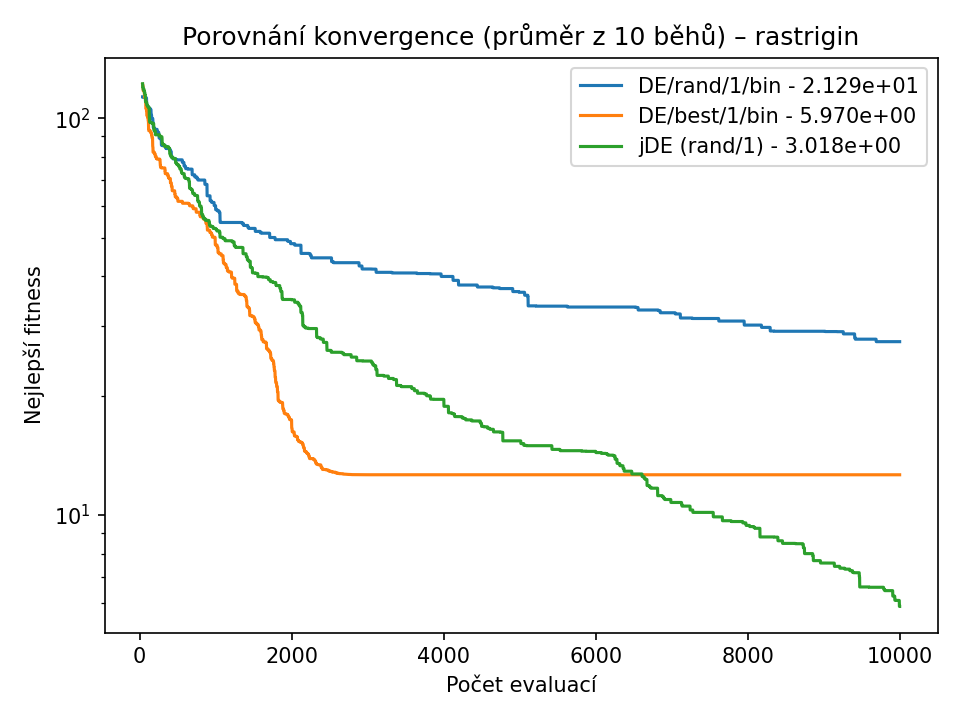
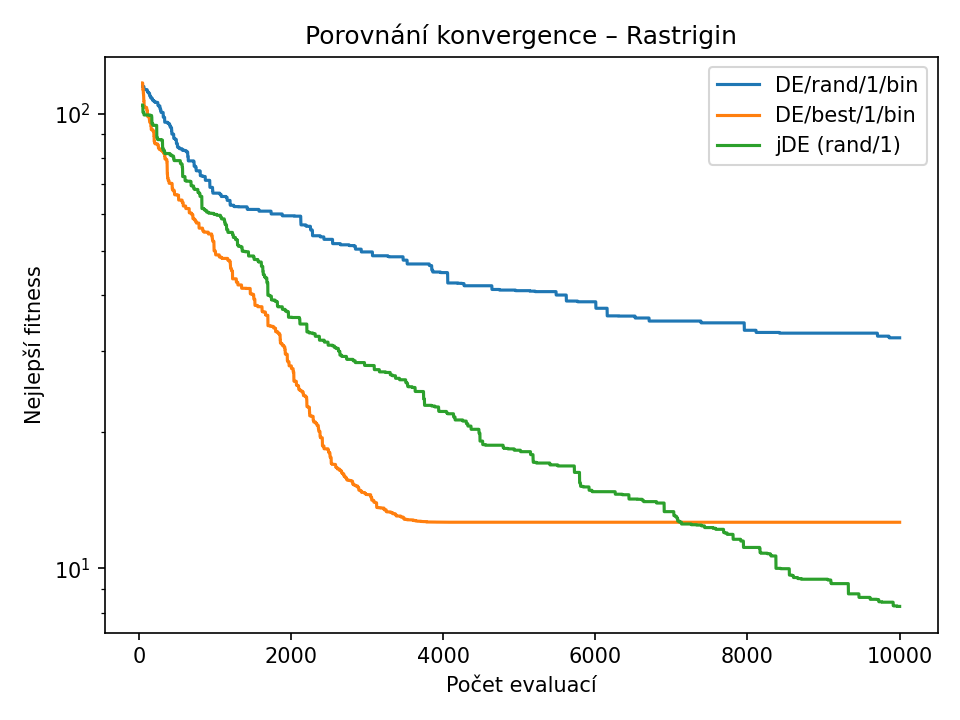
Add readme generator and update main execution logic for Differential Evolution

diff --git a/diferencialni_evoluce/readme_generator.py b/diferencialni_evoluce/readme_generator.py
@@ -1,0 +1,150 @@
+
+import os
+import math
+import numpy as np
+from datetime import datetime
+from de_core import DifferentialEvolution
+from main import sphere, rastrigin, rosenbrock, schwefel
+
+
+FUNCTIONS = [
+    ("Sphere", sphere, (-100, 100)),
+    ("Rastrigin", rastrigin, (-5.12, 5.12)),
+    ("Rosenbrock", rosenbrock, (-2.048, 2.048)),
+    ("Schwefel", schwefel, (-500, 500)),
+]
+
+STRATEGIES = [
+    ("DE/rand/1/bin", dict(strategy="rand1bin", F=0.5, CR=0.8)),
+    ("DE/best/1/bin", dict(strategy="best1bin", F=0.5, CR=0.8)),
+    ("jDE (rand/1)", dict(strategy="rand1bin", F=0.5, CR=0.9, jde=True, tau1=0.1, tau2=0.1)),
+]
+
+DIM = 10
+POP = 50
+MAX_EVALS = 10000
+RUNS = 10
+
+
+# ---------- Pomocné ----------
+def sci(x): return f"{x:.3e}"
+
+
+def run_multiple_runs(de_params, runs=10):
+    logs, finals = [], []
+    for _ in range(runs):
+        de = DifferentialEvolution(**de_params, seed=np.random.randint(0, 9999))
+        best, best_fit, log = de.run()
+        logs.append(np.array(log))
+        finals.append(best_fit)
+
+    # sjednocení délky logů a výpočet průměrné křivky
+    min_len = min(len(l) for l in logs)
+    logs = [l[:min_len] for l in logs]
+    evals = logs[0][:, 0]
+    mean_curve = np.mean([l[:, 1] for l in logs], axis=0)
+    return evals, mean_curve, np.array(finals)
+
+
+# ---------- Hlavní funkce ----------
+def main():
+    os.makedirs("charts", exist_ok=True)
+    os.makedirs("tables", exist_ok=True)
+
+    lines = []
+    lines.append("# Souhrnný report diferenciální evoluce (DE)")
+    lines.append(f"**Datum generování:** {datetime.now().strftime('%Y-%m-%d %H:%M:%S')}")
+    lines.append("")
+    lines.append("## Nastavení experimentu")
+    lines.append(f"- Počet běhů = `{RUNS}`")
+    lines.append(f"- Dimenze (D) = `{DIM}`")
+    lines.append(f"- Počet evaluací = `{MAX_EVALS}`")
+    lines.append(f"- Velikost populace = `{POP}`")
+    lines.append("")
+
+    lines.append("## Princip fungování DE")
+    lines.append(
+        "Diferenciální evoluce (DE) pracuje s reálnými vektory. "
+        "Každý jedinec představuje řešení a nové kandidáty vytváří kombinací jiných jedinců. "
+        "Hlavní části algoritmu jsou:")
+    lines.append("")
+    lines.append("- **Mutace:** vytváří tzv. *mutantní vektor*. Např. pro strategii `rand/1` platí:")
+    lines.append("  \\\( v_i = x_{r1} + F (x_{r2} - x_{r3}) \\)")
+    lines.append("  kde `F` (0.5–0.9) určuje velikost kroku.")
+    lines.append(
+        "- **Křížení (crossover):** kombinuje mutantní vektor s původním jedincem podle pravděpodobnosti `CR`.")
+    lines.append("- **Selekce:** pokud je nový jedinec lepší, nahradí původního.")
+    lines.append("- **jDE:** speciální varianta, která si sama adaptuje parametry `F` a `CR`.")
+    lines.append("")
+
+    lines.append("## Testovací funkce a jejich rozsahy")
+    lines.append("| Funkce | Rozsah proměnných |")
+    lines.append("| --- | --- |")
+    for name, _, (lo, hi) in FUNCTIONS:
+        lines.append(f"| {name} | {lo} až {hi} |")
+    lines.append("")
+
+    # ---------- Výsledky ----------
+    for func_name, func, bounds in FUNCTIONS:
+        lines.append(f"## {func_name}")
+        lines.append(f"### {func_name.lower()} – D={DIM}, budget={MAX_EVALS}, runs={RUNS}")
+        lines.append("")
+        results = []
+        comparison = []
+
+        for label, strat in STRATEGIES:
+            params = dict(func=func, dim=DIM, bounds=bounds,
+                          pop_size=POP, max_evals=MAX_EVALS, **strat)
+            evals, mean_curve, finals = run_multiple_runs(params, runs=RUNS)
+
+            results.append({
+                "label": label,
+                "best": np.min(finals),
+                "worst": np.max(finals),
+                "mean": np.mean(finals),
+                "std": np.std(finals)
+            })
+
+            log = np.column_stack((evals, mean_curve))
+            comparison.append((log, label))
+
+        # tabulka souhrnu
+        lines.append("| Varianta | best | worst | mean | std |")
+        lines.append("|-----------|-------|-------|------|------|")
+        for r in results:
+            lines.append(
+                f"| {r['label']} | {sci(r['best'])} | {sci(r['worst'])} | {sci(r['mean'])} | {sci(r['std'])} |")
+        lines.append("")
+
+        # graf
+        chart_path = f"charts/{func_name.lower()}_comparison_avg.png"
+        DifferentialEvolution.plot_comparison(comparison,
+                                              title=f"Porovnání konvergence – {func_name}",
+                                              out_path=chart_path)
+        lines.append(f"![{func_name}]({chart_path})")
+        lines.append("")
+
+    # ---------- Závěr ----------
+    lines.append("---")
+    lines.append("## Závěr")
+    lines.append(
+        "Ze všech funkcí je vidět, že strategie **DE/best/1/bin** "
+        "má nejrychlejší konvergenci, ale může uvíznout v lokálním minimu. "
+        "**DE/rand/1/bin** je stabilnější, i když pomalejší. "
+        "Varianta **jDE** bývá nejrobustnější, protože si průběžně upravuje parametry F a CR.")
+    lines.append("")
+    lines.append(
+        "Na jednoduché funkci Sphere všechny metody dosáhly téměř nulové chyby. "
+        "Na Rastriginu se nejlépe projevila jDE. "
+        "U Rosenbrocka byla nejpřesnější metoda best/1, zatímco u Schwefelu "
+        "se jDE podařilo lépe překonat lokální minima.")
+    lines.append("")
+
+    with open("readme.md", "w", encoding="utf-8") as f:
+        f.write("\n".join(lines))
+
+    print("✅ Hotovo! Vygenerován soubor readme.md a grafy v /charts/")
+
+
+if __name__ == "__main__":
+    main()

diff --git a/diferencialni_evoluce/main.py b/diferencialni_evoluce/main.py
@@ -32,7 +32,6 @@ def get_bounds(func):
 
 
 def run_multiple_runs(de_params, runs=10):
-    """Spustí algoritmus vícekrát a vrátí průměrný průběh konvergence."""
     logs = []
     final_fits = []
 
@@ -41,20 +40,19 @@ def run_multiple_runs(de_params, runs=10):
         best, best_fit, log = de.run()
         logs.append(np.array(log))
         final_fits.append(best_fit)
+        print(f"Best vector sample ({label}): {best[:3]}")
 
-    # Sjednotíme délku logů (každý může skončit jinak)
     min_len = min(len(l) for l in logs)
     logs = [l[:min_len] for l in logs]
     mean_curve = np.mean([l[:, 1] for l in logs], axis=0)
     evals = logs[0][:, 0]
-
     return evals, mean_curve, final_fits
 
 
 if __name__ == "__main__":
     dim = 10
     max_evals = 10000
-    pop = 40
+    pop = 50
     runs = 10
 
     for function in FUNCTION_BOUNDS.keys():

diff --git a/diferencialni_evoluce/readme.md b/diferencialni_evoluce/readme.md
@@ -1,0 +1,76 @@
+# Souhrnný report diferenciální evoluce (DE)
+**Datum generování:** 2025-10-29 21:56:42
+
+## Nastavení experimentu
+- Počet běhů = `10`
+- Dimenze (D) = `10`
+- Počet evaluací = `10000`
+- Velikost populace = `50`
+
+## Princip fungování DE
+Diferenciální evoluce (DE) pracuje s reálnými vektory. Každý jedinec představuje řešení a nové kandidáty vytváří kombinací jiných jedinců. Hlavní části algoritmu jsou:
+
+- **Mutace:** vytváří tzv. *mutantní vektor*. Např. pro strategii `rand/1` platí:
+  \\( v_i = x_{r1} + F (x_{r2} - x_{r3}) \)
+  kde `F` (0.5–0.9) určuje velikost kroku.
+- **Křížení (crossover):** kombinuje mutantní vektor s původním jedincem podle pravděpodobnosti `CR`.
+- **Selekce:** pokud je nový jedinec lepší, nahradí původního.
+- **jDE:** speciální varianta, která si sama adaptuje parametry `F` a `CR`.
+
+## Testovací funkce a jejich rozsahy
+| Funkce | Rozsah proměnných |
+| --- | --- |
+| Sphere | -100 až 100 |
+| Rastrigin | -5.12 až 5.12 |
+| Rosenbrock | -2.048 až 2.048 |
+| Schwefel | -500 až 500 |
+
+## Sphere
+### sphere – D=10, budget=10000, runs=10
+
+| Varianta | best | worst | mean | std |
+|-----------|-------|-------|------|------|
+| DE/rand/1/bin | 9.381e-06 | 6.735e-05 | 3.575e-05 | 1.791e-05 |
+| DE/best/1/bin | 7.715e-36 | 3.280e-33 | 6.499e-34 | 9.852e-34 |
+| jDE (rand/1) | 1.084e-05 | 3.715e-05 | 1.833e-05 | 7.924e-06 |
+
+![Sphere](charts/sphere_comparison_avg.png)
+
+## Rastrigin
+### rastrigin – D=10, budget=10000, runs=10
+
+| Varianta | best | worst | mean | std |
+|-----------|-------|-------|------|------|
+| DE/rand/1/bin | 2.555e+01 | 3.767e+01 | 3.214e+01 | 4.166e+00 |
+| DE/best/1/bin | 3.980e+00 | 1.691e+01 | 1.264e+01 | 4.006e+00 |
+| jDE (rand/1) | 5.937e+00 | 1.132e+01 | 8.254e+00 | 1.611e+00 |
+
+![Rastrigin](charts/rastrigin_comparison_avg.png)
+
+## Rosenbrock
+### rosenbrock – D=10, budget=10000, runs=10
+
+| Varianta | best | worst | mean | std |
+|-----------|-------|-------|------|------|
+| DE/rand/1/bin | 3.673e+00 | 6.236e+00 | 5.163e+00 | 7.110e-01 |
+| DE/best/1/bin | 9.954e-12 | 3.654e-05 | 4.372e-06 | 1.093e-05 |
+| jDE (rand/1) | 4.217e+00 | 6.514e+00 | 5.660e+00 | 6.524e-01 |
+
+![Rosenbrock](charts/rosenbrock_comparison_avg.png)
+
+## Schwefel
+### schwefel – D=10, budget=10000, runs=10
+
+| Varianta | best | worst | mean | std |
+|-----------|-------|-------|------|------|
+| DE/rand/1/bin | 8.064e+02 | 1.514e+03 | 1.274e+03 | 1.945e+02 |
+| DE/best/1/bin | 1.184e+02 | 1.051e+03 | 6.469e+02 | 2.855e+02 |
+| jDE (rand/1) | 4.364e+01 | 3.916e+02 | 2.055e+02 | 1.094e+02 |
+
+![Schwefel](charts/schwefel_comparison_avg.png)
+
+---
+## Závěr
+Ze všech funkcí je vidět, že strategie **DE/best/1/bin** má nejrychlejší konvergenci, ale může uvíznout v lokálním minimu. **DE/rand/1/bin** je stabilnější, i když pomalejší. Varianta **jDE** bývá nejrobustnější, protože si průběžně upravuje parametry F a CR.
+
+Na jednoduché funkci Sphere všechny metody dosáhly téměř nulové chyby. Na Rastriginu se nejlépe projevila jDE. U Rosenbrocka byla nejpřesnější metoda best/1, zatímco u Schwefelu se jDE podařilo lépe překonat lokální minima.
